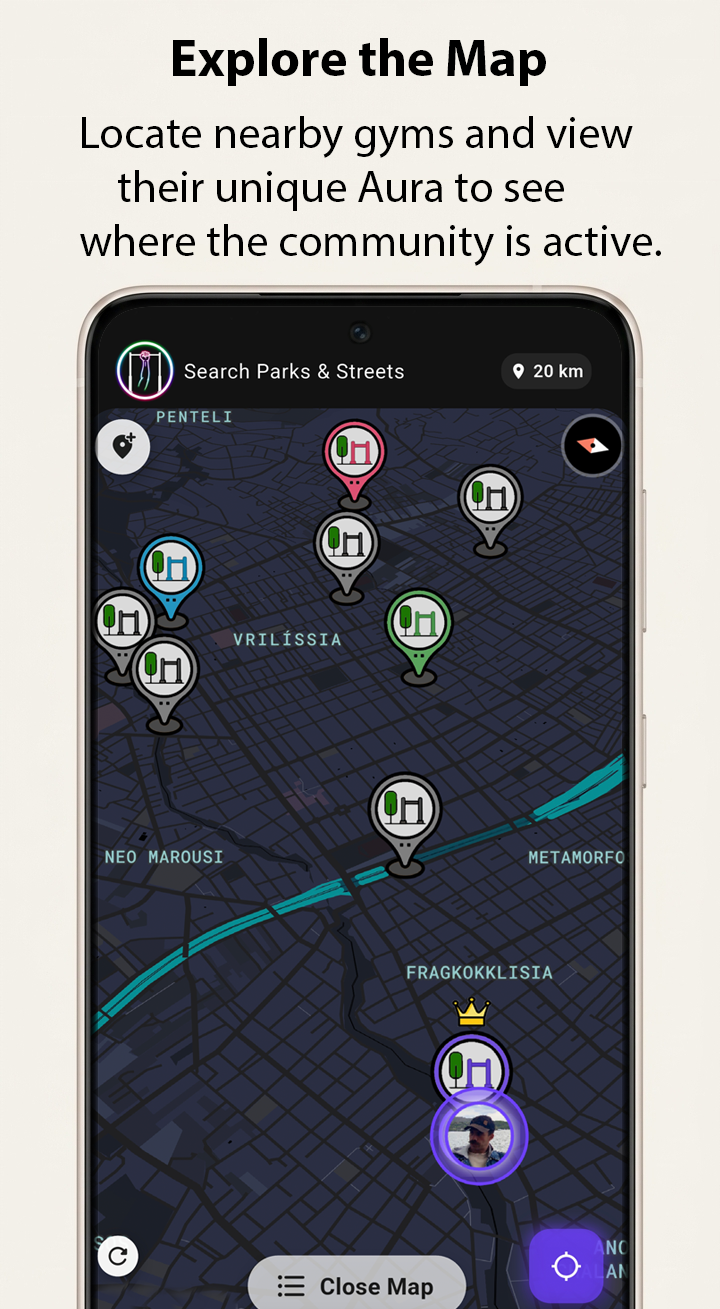
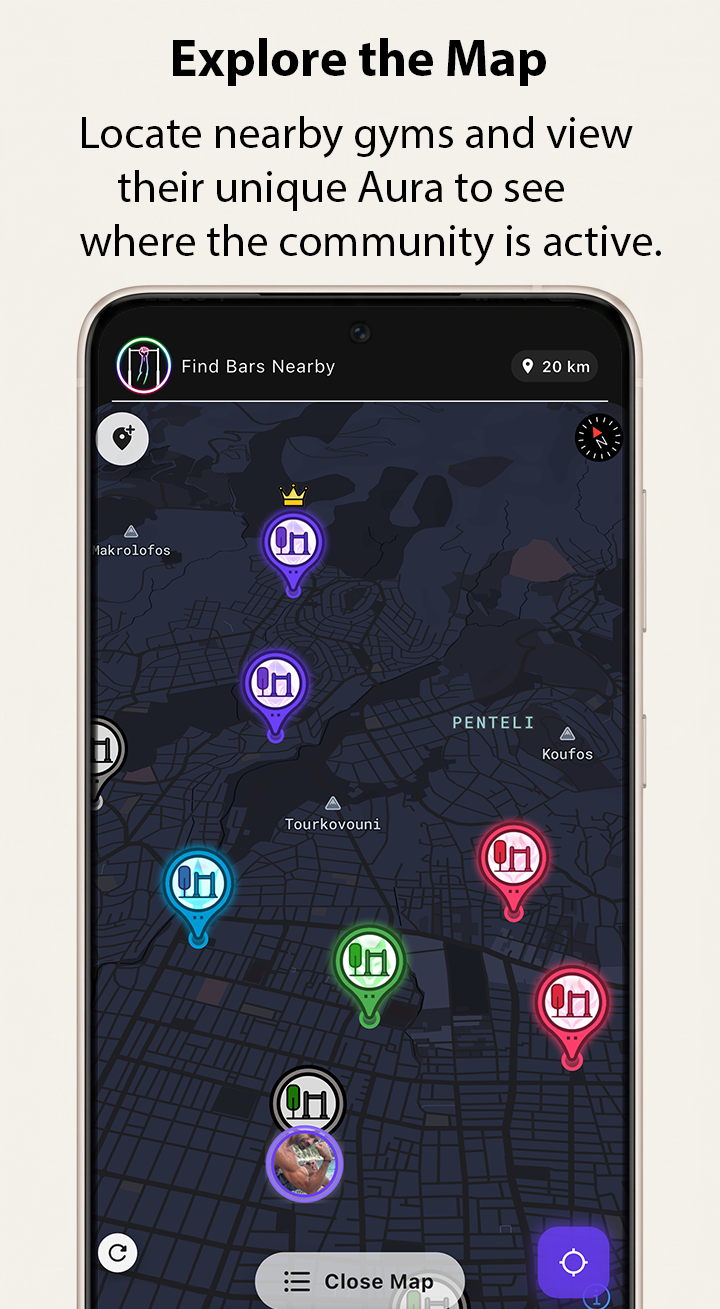
Update landing page for App Store production release

Changed region(s): [[0.1222, 0.2445, 0.8861, 1.0]]

diff --git a/app/page.js b/app/page.js
@@ -5,19 +5,16 @@ import Image from "next/image";
 import { motion, AnimatePresence } from "framer-motion";
 
 export default function Home() {
-  // State για το Mobile Menu
   const [isMobileMenuOpen, setIsMobileMenuOpen] = useState(false);
   
-  // Ξεχωριστά States για να δείξουμε τα μηνύματα επιτυχίας στην κάθε φόρμα
+  // Restored states for email collection
   const [androidFormStatus, setAndroidFormStatus] = useState("");
   const [iosFormStatus, setIosFormStatus] = useState("");
 
-  // States & Refs για το Audio
   const audioRef = useRef(null);
   const [isAudioPlaying, setIsAudioPlaying] = useState(false);
   const [hasInteracted, setHasInteracted] = useState(false);
 
-  // Αρχικοποίηση του Audio (τρέχει μόνο στον client)
   useEffect(() => {
     audioRef.current = new Audio("/soundtrack.mp3");
     audioRef.current.loop = true; 
@@ -86,7 +83,6 @@ export default function Home() {
 
   const scrollToSection = (e, sectionId) => {
     if (e) e.preventDefault(); 
-    
     setIsMobileMenuOpen(false); 
 
     setTimeout(() => {
@@ -104,7 +100,7 @@ export default function Home() {
     transition: { duration: 0.6 }
   };
 
-  // Direct υποβολή στο δικό μας Next.js API route συνδεδεμένο με Supabase
+  // Restored form submission logic for your Next.js/Supabase backend
   const handleFormSubmit = async (e, platform) => {
     e.preventDefault();
     
@@ -154,13 +150,11 @@ export default function Home() {
           </div>
           
           <div className="flex items-center gap-6">
-            {/* Desktop Menu */}
             <div className="hidden md:flex items-center gap-8 text-sm font-medium text-gray-400">
               <a href="#features" onClick={(e) => scrollToSection(e, 'features')} className="hover:text-white transition-colors cursor-pointer">How it works</a>
               <a href="#preview" onClick={(e) => scrollToSection(e, 'preview')} className="hover:text-white transition-colors cursor-pointer">App</a>
-              <a href="#beta" onClick={(e) => scrollToSection(e, 'beta')} className="hover:text-white transition-colors cursor-pointer">Beta</a>
+              <a href="#download" onClick={(e) => scrollToSection(e, 'download')} className="hover:text-white transition-colors cursor-pointer">Download</a>
               
-              {/* Instagram Link Nav */}
               <a 
                 href="https://instagram.com/onbarsapp" 
                 target="_blank" 
@@ -176,7 +170,6 @@ export default function Home() {
               </a>
             </div>
 
-            {/* AUDIO TOGGLE BUTTON */}
             <button 
               onClick={toggleAudio}
               className="text-cyan-400 hover:text-white transition-colors p-2 rounded-full hover:bg-zinc-800/50"
@@ -197,7 +190,6 @@ export default function Home() {
               )}
             </button>
 
-            {/* Mobile Menu Button */}
             <button 
               className="md:hidden text-gray-400 hover:text-white p-2"
               onClick={() => setIsMobileMenuOpen(!isMobileMenuOpen)}
@@ -213,7 +205,6 @@ export default function Home() {
           </div>
         </div>
 
-        {/* Mobile Menu Dropdown */}
         <AnimatePresence>
           {isMobileMenuOpen && (
             <motion.div 
@@ -225,9 +216,8 @@ export default function Home() {
               <div className="flex flex-col px-6 py-4 gap-4 text-sm font-medium text-gray-400">
                 <a href="#features" onClick={(e) => scrollToSection(e, 'features')} className="hover:text-white py-2 cursor-pointer">How it works</a>
                 <a href="#preview" onClick={(e) => scrollToSection(e, 'preview')} className="hover:text-white py-2 cursor-pointer">App</a>
-                <a href="#beta" onClick={(e) => scrollToSection(e, 'beta')} className="hover:text-white py-2 cursor-pointer">Beta</a>
+                <a href="#download" onClick={(e) => scrollToSection(e, 'download')} className="hover:text-white py-2 cursor-pointer">Download</a>
                 
-                {/* Instagram Link Mobile */}
                 <a 
                   href="https://instagram.com/onbarsapp" 
                   target="_blank" 
@@ -247,7 +237,6 @@ export default function Home() {
         </AnimatePresence>
       </nav>
 
-      {/* HERO SECTION */}
       <section className="relative flex flex-col items-center justify-center text-center px-6 pt-40 pb-20">
         <motion.div 
           initial={{ scale: 0.8, opacity: 0 }}
@@ -280,7 +269,7 @@ export default function Home() {
           className="px-4 py-1 rounded-full border border-cyan-500/30 bg-cyan-500/10 text-cyan-400 text-xs font-bold uppercase tracking-widest mb-8"
           {...fadeIn}
         >
-          Open Beta Now Live
+          Available Now
         </motion.div>
 
         <motion.p 
@@ -292,30 +281,28 @@ export default function Home() {
           and compete with other athletes by spreading your <span className="text-white font-semibold italic">Aura</span> across the map.
         </motion.p>
 
-        {/* HERO BUTTONS */}
         <motion.div 
           className="flex flex-col sm:flex-row gap-4"
           {...fadeIn}
           transition={{ delay: 0.3 }}
         >
           <a
-            href="#beta"
-            onClick={(e) => scrollToSection(e, 'beta')}
+            href="#download"
+            onClick={(e) => scrollToSection(e, 'download')}
             className="bg-white text-black px-8 py-4 rounded-2xl font-bold hover:bg-green-400 hover:shadow-[0_0_25px_rgba(34,211,0,0.6)] transition-all transform hover:scale-105 active:scale-95"
           >
-            Get Android Beta
+            Get it on Android
           </a>
           <a 
-            href="#beta"
-            onClick={(e) => scrollToSection(e, 'beta')}
+            href="#download"
+            onClick={(e) => scrollToSection(e, 'download')}
             className="bg-zinc-900 border border-zinc-700 text-white px-8 py-4 rounded-2xl font-bold hover:border-cyan-500 hover:shadow-[0_0_25px_rgba(34,211,234,0.6)] transition-all transform hover:scale-105 active:scale-95"
           >
-            Get iOS Beta
+            Get it on iOS
           </a>
         </motion.div>
       </section>
 
-      {/* STATS STRIP */}
       <motion.div 
         className="border-y border-zinc-800/50 bg-zinc-900/30 backdrop-blur-sm py-12 my-10"
         initial={{ opacity: 0 }}
@@ -332,7 +319,6 @@ export default function Home() {
         </div>
       </motion.div>
 
-      {/* FEATURES */}
       <section id="features" className="max-w-6xl mx-auto px-6 py-24">
         <div className="grid md:grid-cols-2 lg:grid-cols-4 gap-6">
           {[
@@ -375,7 +361,6 @@ export default function Home() {
         </div>
       </section>
 
-      {/* SCREENSHOTS / PREVIEW */}
       <section id="preview" className="px-6 py-24 bg-zinc-900/20">
         <motion.h2 className="text-4xl font-bold text-center mb-16" {...fadeIn}>
           App Preview
@@ -413,18 +398,17 @@ export default function Home() {
         </div>
       </section>
 
-      {/* BETA SIGNUP SECTION */}
-      <section id="beta" className="max-w-5xl mx-auto px-6 py-32 text-center">
+      {/* DOWNLOAD SECTION WITH EMAIL GATES RESTORED */}
+      <section id="download" className="max-w-5xl mx-auto px-6 py-32 text-center">
         <motion.div 
           className="bg-gradient-to-b from-zinc-900 to-black border border-zinc-800 p-8 md:p-12 rounded-[3rem] relative overflow-hidden"
           {...fadeIn}
         >
-          {/* Subtle Background Glow */}
           <div className="absolute top-0 left-1/2 -translate-x-1/2 w-40 h-40 bg-blue-500/20 blur-[80px] -z-10"></div>
           
-          <h2 className="text-4xl font-bold mb-4 tracking-tight">Join the Beta</h2>
+          <h2 className="text-4xl font-bold mb-4 tracking-tight">Join the First Users</h2>
           <p className="text-gray-400 max-w-xl mx-auto mb-12 text-sm md:text-base">
-            Select your platform below to get instant access, install the app, and start spreading your Aura.
+            Enter your email below to unlock immediate access. Track your reps, claim local parks, and connect with athletes nearby.
           </p>
 
           <div className="grid grid-cols-1 md:grid-cols-2 gap-8 text-left items-stretch">
@@ -436,15 +420,13 @@ export default function Home() {
                   <span className="px-3 py-1 rounded-full border border-green-500/30 bg-green-500/10 text-green-400 text-xs font-bold uppercase tracking-wider">
                     Android
                   </span>
-                  <span className="text-xs text-gray-500 font-medium">Limited spots</span>
                 </div>
                 <h3 className="text-2xl font-bold text-white mb-3">Google Play Store</h3>
                 <p className="text-gray-400 text-sm mb-6 leading-relaxed">
-                  Enter your Google Play email below to unlock the direct download link and join the Open Beta.
+                  Enter your email to unlock the direct download link and join the community.
                 </p>
               </div>
 
-              {/* Form Status Content for Android */}
               <div className="mt-auto">
                 {androidFormStatus === "success" ? (
                   <motion.div 
@@ -465,15 +447,12 @@ export default function Home() {
                     </a>
                   </motion.div>
                 ) : (
-                  <form
-                    onSubmit={(e) => handleFormSubmit(e, 'Android')}
-                    className="flex flex-col gap-3"
-                  >
+                  <form onSubmit={(e) => handleFormSubmit(e, 'Android')} className="flex flex-col gap-3">
                     <input
                       type="email"
                       name="email"
                       required
-                      placeholder="Enter your Google Play email"
+                      placeholder="Enter your email address"
                       className="w-full px-5 py-3.5 rounded-xl bg-zinc-900 border border-zinc-700 text-white outline-none focus:border-green-500 transition-all text-sm"
                     />
                     <button
@@ -481,7 +460,7 @@ export default function Home() {
                       disabled={androidFormStatus === "submitting"}
                       className="w-full bg-zinc-800 border border-zinc-700 text-white px-6 py-3.5 rounded-xl font-bold hover:bg-green-500 hover:text-black hover:border-green-500 transition-all disabled:opacity-50 text-sm"
                     >
-                      {androidFormStatus === "submitting" ? "Processing..." : "Unlock Android Access"}
+                      {androidFormStatus === "submitting" ? "Processing..." : "Unlock Android Download"}
                     </button>
                     {androidFormStatus === "error" && (
                       <p className="text-red-400 text-xs mt-1 text-center font-medium">
@@ -493,22 +472,21 @@ export default function Home() {
               </div>
             </div>
 
-            {/* IOS BLOCK */}
+           {/* IOS BLOCK */}
             <div className="bg-zinc-950/50 border border-zinc-800/80 p-8 rounded-3xl flex flex-col justify-between backdrop-blur-sm">
               <div>
                 <div className="flex items-center gap-3 mb-4">
                   <span className="px-3 py-1 rounded-full border border-blue-500/30 bg-blue-500/10 text-blue-400 text-xs font-bold uppercase tracking-wider">
                     iOS
                   </span>
-                  <span className="text-xs text-gray-500 font-medium">Limited spots</span>
+                  <span className="text-xs text-gray-500 font-medium">Early Access</span>
                 </div>
-                <h3 className="text-2xl font-bold text-white mb-3">Apple TestFlight</h3>
+                <h3 className="text-2xl font-bold text-white mb-3">App Store</h3>
                 <p className="text-gray-400 text-sm mb-6 leading-relaxed">
-                  Enter your Apple ID email below to unlock immediate access to our TestFlight track and receive early feature notifications.
+                  Enter your email below to unlock immediate early access to OnBars for iPhone.
                 </p>
               </div>
 
-              {/* Form Status Content for iOS */}
               <div className="mt-auto">
                 {iosFormStatus === "success" ? (
                   <motion.div 
@@ -519,20 +497,18 @@ export default function Home() {
                     <div className="p-4 bg-cyan-500/10 border border-cyan-500/30 rounded-2xl text-center">
                       <p className="text-cyan-400 text-sm font-semibold">Welcome to OnBars! ⚡</p>
                     </div>
+                    {/* TestFlight link remains here, but the button text is cleaner */}
                     <a 
                       href="https://testflight.apple.com/join/f4DafGEU"
                       target="_blank"
                       rel="noopener noreferrer"
                       className="block w-full text-center bg-gradient-to-r from-blue-500 to-cyan-500 text-white px-6 py-4 rounded-xl font-bold hover:shadow-[0_0_25px_rgba(34,211,234,0.4)] transition-all text-sm transform active:scale-95"
                     >
-                      Download via TestFlight
+                      Download for iOS
                     </a>
                   </motion.div>
                 ) : (
-                  <form
-                    onSubmit={(e) => handleFormSubmit(e, 'iOS')}
-                    className="flex flex-col gap-3"
-                  >
+                  <form onSubmit={(e) => handleFormSubmit(e, 'iOS')} className="flex flex-col gap-3">
                     <input
                       type="email"
                       name="email"
@@ -545,7 +521,7 @@ export default function Home() {
                       disabled={iosFormStatus === "submitting"}
                       className="w-full bg-zinc-800 border border-zinc-700 text-white px-6 py-3.5 rounded-xl font-bold hover:bg-cyan-500 hover:text-black hover:border-cyan-500 transition-all disabled:opacity-50 text-sm"
                     >
-                      {iosFormStatus === "submitting" ? "Processing..." : "Unlock iOS Access"}
+                      {iosFormStatus === "submitting" ? "Processing..." : "Unlock iOS Download"}
                     </button>
                     {iosFormStatus === "error" && (
                       <p className="text-red-400 text-xs mt-1 text-center font-medium">
@@ -561,18 +537,16 @@ export default function Home() {
         </motion.div>
       </section>
 
-      {/* ABOUT */}
       <section className="max-w-3xl mx-auto px-6 pb-32 text-center opacity-80">
         <h2 className="text-2xl font-bold mb-6">About OnBars</h2>
         <p className="text-gray-500 leading-relaxed italic">
           <strong className="text-white">OnBars</strong> started with a simple goal: build the ultimate calisthenics app for athletes training on bars around the world. 
           We wanted more than just a workout tracker — we wanted a platform where athletes can discover calisthenics parks, track their progress and connect with the global calisthenics community. 
           OnBars is also designed to feel like a game. Level up your Aura and compete with other athletes by claiming calisthenics parks and spreading your Aura across the map. 
-          We’ve poured our passion, time and soul into building this project, and during the beta your feedback will help shape the future of <strong className="text-white">OnBars</strong>.
+          We’ve poured our passion, time and soul into building this project, and your continuous feedback helps shape the future of <strong className="text-white">OnBars</strong>.
         </p>
       </section>
 
-      {/* FOOTER */}
       <footer className="border-t border-zinc-900 pt-16 pb-10 px-6">
         <div className="max-w-6xl mx-auto flex flex-col md:flex-row justify-between items-center gap-8">
           <div className="text-gray-500 text-sm">
